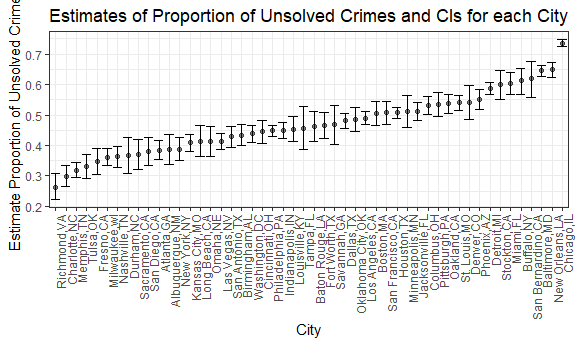
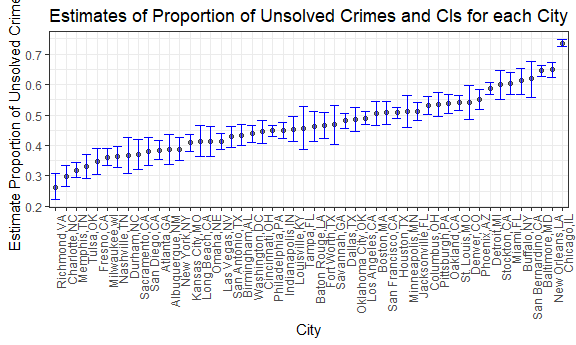
note added to graph of estimates and CIs

diff --git a/p8105_hw5_jl5296.md b/p8105_hw5_jl5296.md
@@ -404,26 +404,26 @@ unsolv_hom_data = new_hom_data %>%
   summarize(unsolved_homicides = n())
   
 # Join datasets
-city_hom_data = left_join(tot_hom_data, unsolv_hom_data, by = "city_state")
+city_hom_data = left_join(unsolv_hom_data, tot_hom_data, by = "city_state")
 
 # First 10 rows of resulting dataset
 print(city_hom_data, 10)
 ```
 
-    ## # A tibble: 51 x 3
-    ##    city_state     total_homicide unsolved_homicides
-    ##    <chr>                   <int>              <int>
-    ##  1 Albuquerque,NM            378                146
-    ##  2 Atlanta,GA                973                373
-    ##  3 Baltimore,MD             2827               1825
-    ##  4 Baton Rouge,LA            424                196
-    ##  5 Birmingham,AL             800                347
-    ##  6 Boston,MA                 614                310
-    ##  7 Buffalo,NY                521                319
-    ##  8 Charlotte,NC              687                206
-    ##  9 Chicago,IL               5535               4073
-    ## 10 Cincinnati,OH             694                309
-    ## # ... with 41 more rows
+    ## # A tibble: 50 x 3
+    ##    city_state     unsolved_homicides total_homicide
+    ##    <chr>                       <int>          <int>
+    ##  1 Albuquerque,NM                146            378
+    ##  2 Atlanta,GA                    373            973
+    ##  3 Baltimore,MD                 1825           2827
+    ##  4 Baton Rouge,LA                196            424
+    ##  5 Birmingham,AL                 347            800
+    ##  6 Boston,MA                     310            614
+    ##  7 Buffalo,NY                    319            521
+    ##  8 Charlotte,NC                  206            687
+    ##  9 Chicago,IL                   4073           5535
+    ## 10 Cincinnati,OH                 309            694
+    ## # ... with 40 more rows
 
 ### Baltimore, MD Analysis
 
@@ -447,9 +447,8 @@ According to the results of the test, the *point estimate* of the proportion of 
 #### Estimate proportions and CIs for each city
 
 ``` r
-# Run prop.test for every city excluding Tulsa and store result as a list column
+# Run prop.test for every city and store result as a list column
 test_data = city_hom_data %>% 
-  filter(city_state != "Tulsa,AL") %>% 
   mutate(test_stats = map2(.x = unsolved_homicides, .y = total_homicide, ~prop.test(x = .x, n= .y) %>% broom::tidy())) %>% 
 # Unnest to extract estimates and CIs for each city
 unnest() %>% 
@@ -469,8 +468,6 @@ head(test_data)
     ## 5 Birmingham,~            800              347    0.434    0.399     0.469
     ## 6 Boston,MA               614              310    0.505    0.465     0.545
 
--   Note: **Tulsa, AL** was ommitted from the dataframe since it has missing value for "*unsolved homicides*" and thus cannot be used to compute a proportion.
-
 #### Create plot to show estimates and CIs for each city
 
 ``` r
@@ -479,7 +476,7 @@ test_data %>%
   mutate(city_state = fct_reorder(city_state, estimate)) %>% 
   ggplot(aes(x = city_state, y = estimate)) +
   geom_point(alpha = .5) +
-  geom_errorbar(aes(ymin = conf.low , ymax = conf.high)) +
+  geom_errorbar(aes(ymin = conf.low , ymax = conf.high), color = "blue") +
   theme(axis.text.x = element_text(angle = 90, hjust = 1)) +
   labs(
     title = "Estimates of Proportion of Unsolved Crimes and CIs for each City",
@@ -488,4 +485,4 @@ test_data %>%
   )
 ```
 
-<img src="p8105_hw5_jl5296_files/figure-markdown_github/unnamed-chunk-9-1.png" width="90%" />
+<img src="p8105_hw5_jl5296_files/figure-markdown_github/unnamed-chunk-9-1.png" width="90%" /> \* **Note**: Error bars represent upper and lower limits of the confidence intervals.
